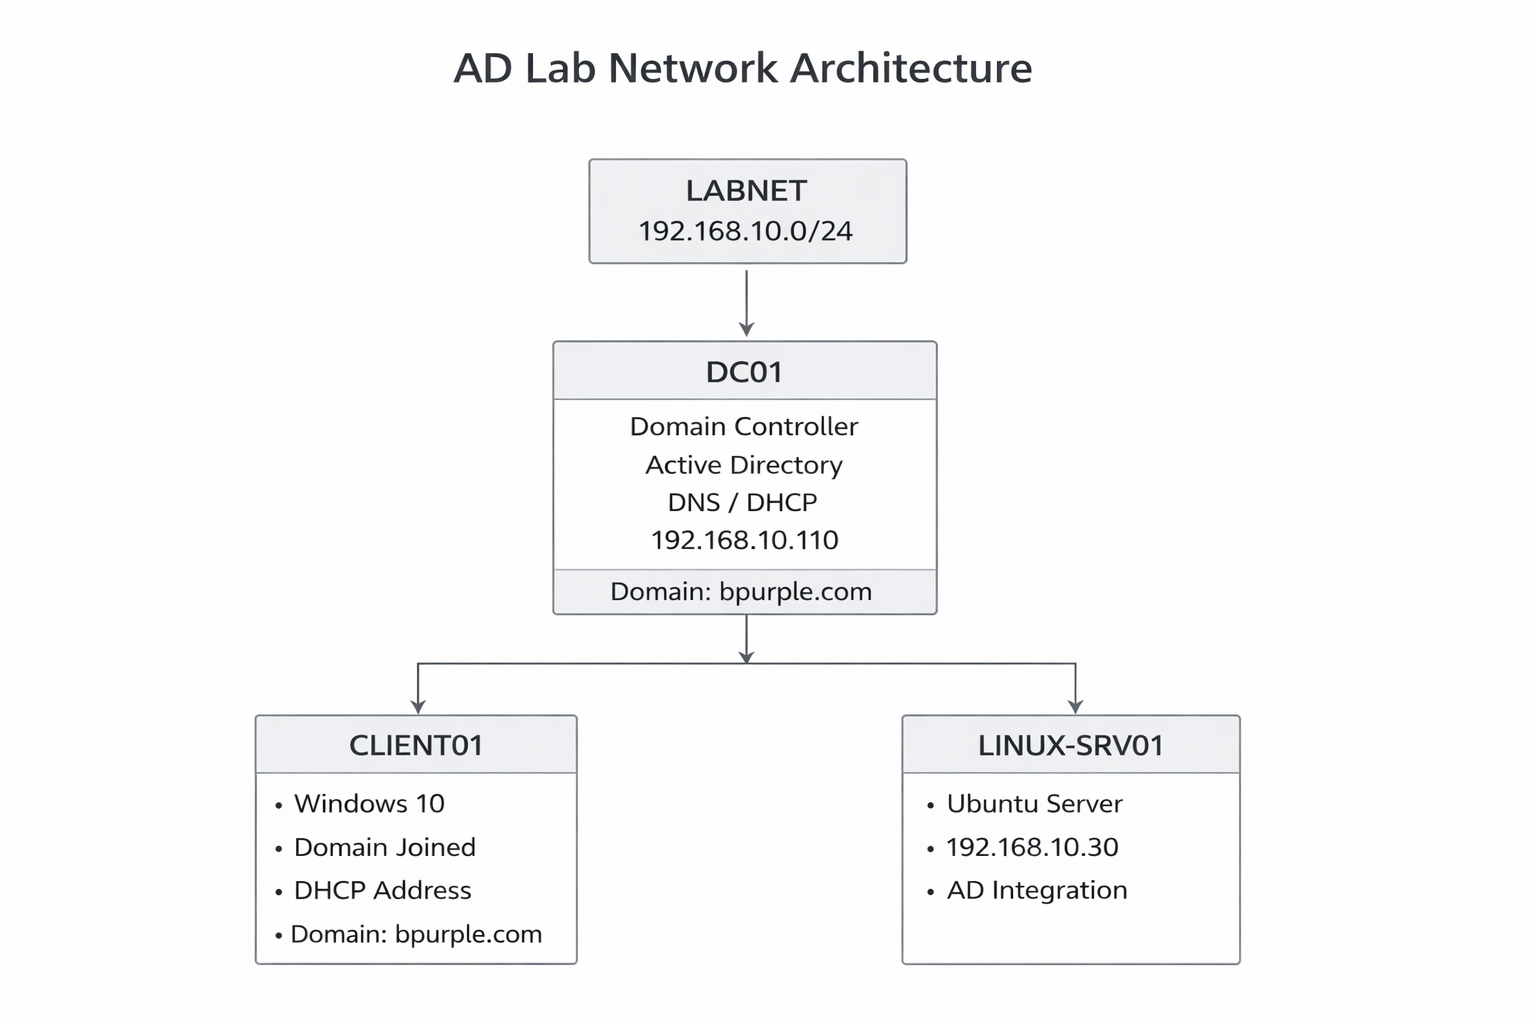
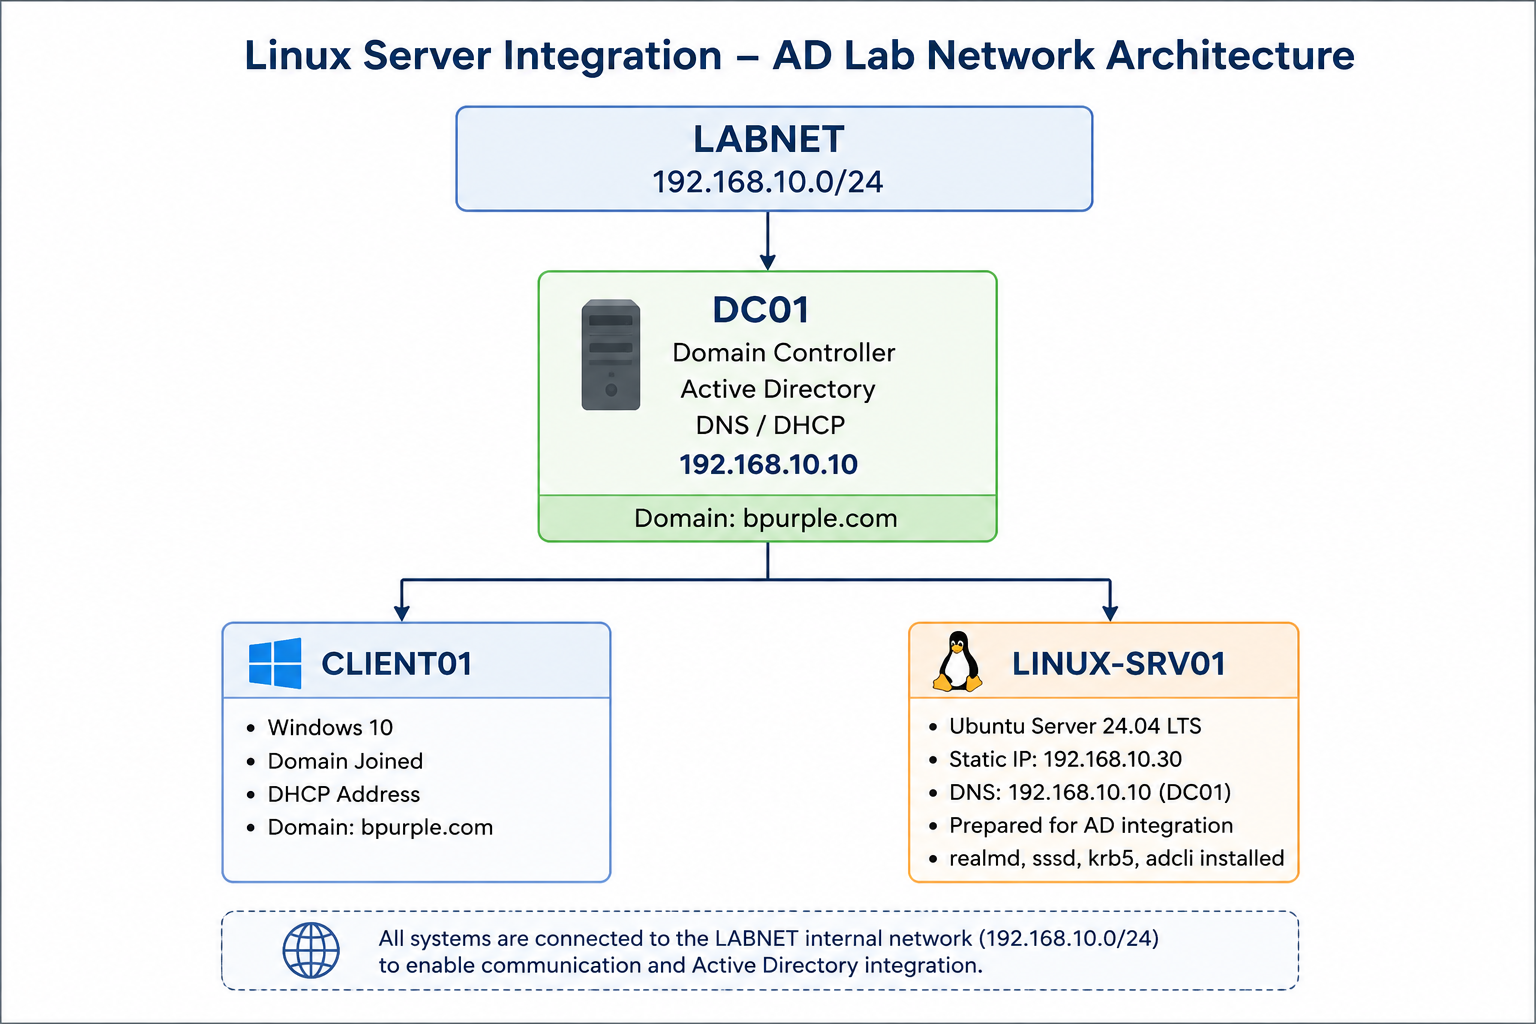
refresh # Linux Server Integration – Active Directory Domain Environment Preparation

diff --git a/Linux-Infrastructure/Linux-Active-Directory-Integration/README.md b/Linux-Infrastructure/Linux-Active-Directory-Integration/README.md
@@ -1,6 +1,10 @@
-# Linux Server Integration – Active Directory Domain Environment
+# Linux Server Integration – Active Directory Domain Environment Preparation
 
-This lab demonstrates how a Linux server can be prepared for integration with a Windows Active Directory domain by validating DNS configuration, network connectivity, and domain discovery prerequisites.
+This lab demonstrates how I prepared a Linux server for integration with a Windows Active Directory environment.
+
+I focused on the prerequisites that need to be working before attempting a domain join: network configuration, DNS, connectivity, hostname configuration, and Active Directory DNS resolution.
+
+The lab was built in VirtualBox using an Ubuntu Server 24.04 LTS virtual machine connected to the same internal network as the Windows Domain Controller.
 
 ## Ticket Information
 
@@ -63,18 +67,15 @@ Network Range: 192.168.10.0/24
 
 # Network Architecture
 
-![Architecture](./screenshots/lab-network-architecture.png)
+The lab environment was built on a VirtualBox internal network called **LABNET** using the `192.168.10.0/24` address range.
 
+The environment consisted of:
 
-This diagram illustrates the structure of the lab environment.
+- **DC01** – Windows Server Domain Controller
+- **CLIENT01** – Windows domain-joined client
+- **LINUX-SRV01** – Ubuntu Server prepared for Active Directory integration
 
-It shows the relationship between:
-
-- **DC01** (Domain Controller)
-- **CLIENT01** (Windows domain client)
-- **LINUX-SRV01** (Linux server)
-
-All systems communicate within the **192.168.10.0/24 LABNET internal network**.
+![Linux Server Integration Network Architecture](./screenshots/lab-network-architecture.png)
 
 ---
 
@@ -267,26 +268,23 @@ Successful discovery verifies that the Linux server can communicate with Active 
 
 ---
 
-# Domain Join
+# Next Step – Active Directory Domain Join
 
-Once the Linux server successfully discovers the Active Directory domain, the next step is joining the system to the domain.
+With the Linux server's hostname, network connectivity, DNS configuration, and Active Directory name resolution validated, the environment is prepared for the next stage: joining the Linux server to the domain.
 
-Command used for domain join:
+The expected next step would be:
 
 ```bash
-sudo realm join bpurple.com
 ```
+realm discover bpurple.com
 
-During the join process, the system requests credentials from a domain administrator with permission to add computers to the domain.
+followed by a domain join using:
 
-Successful domain integration enables:
+sudo realm join bpurple.com
 
-* Active Directory authentication for Linux logins
-* Centralized identity management
-* Kerberos-based authentication
-* SSSD-based user identity services
+I did not treat the domain join as completed in this lab because the focus of this exercise was validating the infrastructure prerequisites required before attempting the join.
 
-This lab focused on validating the infrastructure prerequisites required before performing a domain join operation.
+This separation helped me understand an important troubleshooting principle: before performing a major configuration change, first make sure the underlying network and DNS requirements are working correctly.
 
 ---
 
@@ -295,14 +293,16 @@ This lab focused on validating the infrastructure prerequisites required before 
 During validation, the following checks were performed:
 
 | Check | Purpose |
-|------|------|
-| `ip a` | Verify network interface configuration |
+|---|---|
+| `hostnamectl` | Verify hostname and operating system |
+| `ip a` | Verify network interface and IP configuration |
 | `cat /etc/resolv.conf` | Validate DNS configuration |
-| `ping 192.168.10.10` | Confirm network connectivity |
-| `ping dc01.bpurple.com` | Confirm domain name resolution |
+| `ping 192.168.10.10` | Confirm connectivity with DC01 |
+| `ping dc01.bpurple.com` | Confirm Active Directory DNS resolution |
 
+All validation checks completed successfully.
 
-All checks returned successful results, indicating that the Linux server was correctly configured to communicate with the Active Directory environment.
+The results confirmed that the Linux server could communicate with the Domain Controller and resolve it using its Active Directory hostname.
 
 # Business Impact
 
@@ -337,10 +337,12 @@ In many cases, integration issues are not caused by the domain itself, but by mi
 
 # Conclusion
 
-In this lab, I successfully prepared a Linux server for integration into an Active Directory environment.
+In this lab, I prepared an Ubuntu Server system for integration with an existing Active Directory environment.
 
-I was able to validate network connectivity, configure DNS correctly, and confirm that the server could discover and communicate with the domain controller.
+I configured and verified the Linux server's hostname, IP addressing, DNS configuration, network connectivity, and Active Directory DNS resolution.
 
-With these prerequisites in place, the system is now ready for domain join and centralized authentication using Kerberos and SSSD.
+The validation confirmed that the Linux server could communicate with the Domain Controller and resolve it using its Active Directory hostname.
 
-This setup reflects the real-world process of preparing Linux systems for enterprise identity integration.
+The next stage would be to perform Active Directory discovery and complete the domain join using the realmd and SSSD stack.
+
+The main lesson from this lab was that successful Linux and Active Directory integration starts with getting the fundamentals right — especially networking and DNS.
